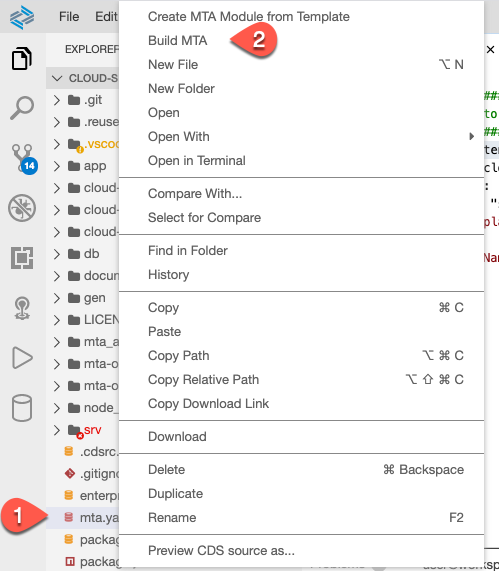
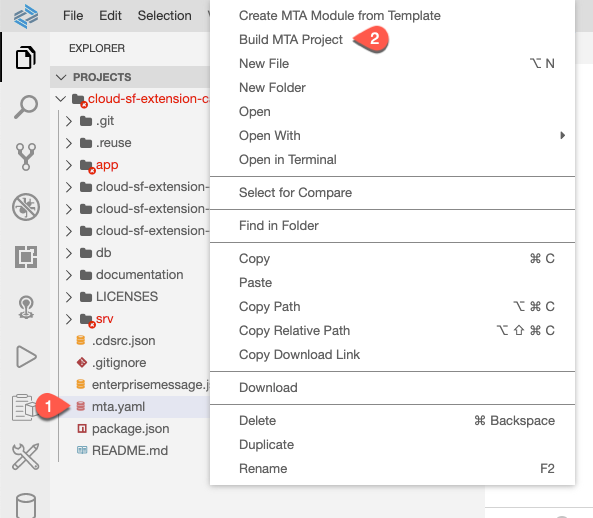
fix validation issue 72

diff --git a/mission/extension-app/README.md b/mission/extension-app/README.md
@@ -45,11 +45,19 @@ File / Folder | Purpose
 6.	Your Dev Space is now being created. As soon as the Dev Space is available you can click on your dev space name to access it.
 
    
-7. Choose *Terminal -> New Terminal* in the menu on the top of your screen.
+7. After the dev space opens, click on **Open Folder** to open the **projects** folder before cloning the sample application.
+
+   ![Open Folder](./images/openFolder.png)
+   
+8. Choose the folder **projects** and click **Open** to open the **projects** folder.
+
+   ![Open Folder](./images/openFolder02.png)
+   
+9. Choose *Terminal -> New Terminal* in the menu on the top of your screen.
 
     ![Open Terminal](./images/dev-cap-app-5.png)
  
-8. Enter your Github user name and email.
+10. Enter your Github user name and email.
    
    ```bash 
    git config --global user.email "your@email"
@@ -57,25 +65,15 @@ File / Folder | Purpose
    git config --global user.name "your Name"
    ``` 
  
-9. Click the button **Clone Repository** to clone the source code from SAP samples application repository.
+11. To clone the sample code in your projects folder, give the following command.
+
+   ```bash
+   git clone https://github.com/SAP-samples/cloud-sf-extension-cap-sample.git
+   ```
    
-   ![clone repo1](./images/dev-cap-app-7.png) 
-   
-10.	Enter the URL https://github.com/SAP-samples/cloud-sf-extension-cap-sample.git into your **projects** folder in developer studio.
-
-   ![clone repo2](./images/cloneSampleRepo.png)
-   
-   Alternatively, you could also clone by entering the following command in the Terminal which you opened in Step 7.
-
-    ```bash
-    git clone https://github.com/SAP-samples/cloud-sf-extension-cap-sample.git 
-     ```
-
-11. Click **Open** once the cloning wizard finishes to open the cloned repository. The window refreshes and opens the cloned repository *cloud-sf-extension-cap-sample*.
-
-    ![open repo](./images/cloneSampleRepo2.png)
+   ![clone repo2](./images/cloneSampleRepo.png)  
     
-12. Let us now login to your SAP BTP account in *SAP Business Application Studio* to deploy your application from *SAP Business Application Studio*.
+12. Let us now login to your SAP BTP account in *SAP Business Application Studio* in order to deploy your application from *SAP Business Application Studio*.
  
    * Check if you are logged in to your SAP BTP Account from *SAP Business Application Studio*.
      
@@ -161,9 +159,9 @@ File / Folder | Purpose
 
 ### Build and Deploy
 
-1.	Build the MTA Archive. Right-click on the **mta.yaml** file and select **Build MTA**.
+1.	Build the MTA Archive. Right-click on the **mta.yaml** file and select **Build MTA Project**.
    
-   ![mta](./images/dev-cap-app-mta2.png) 
+   ![mta](./images/dev-cap-app-mta2.png)
 
 2. If the build is successful, you find the generated **mtar** file the **mta_archives** folder. Right-click on this file and select **Deploy MTA Archive**.
 
